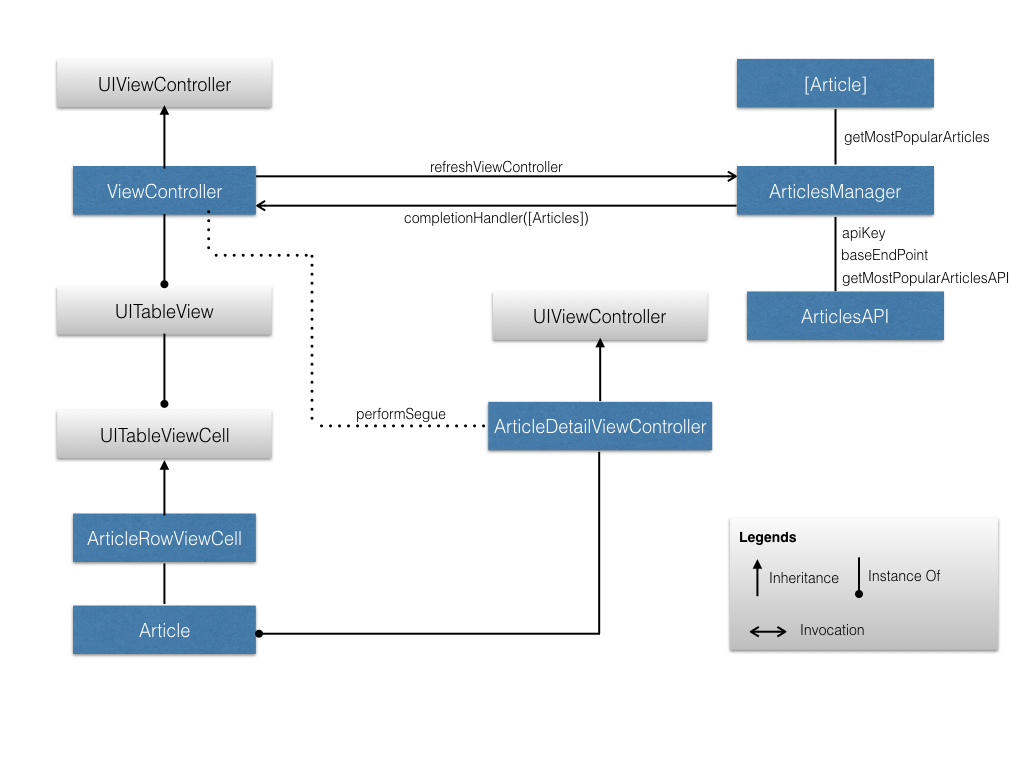
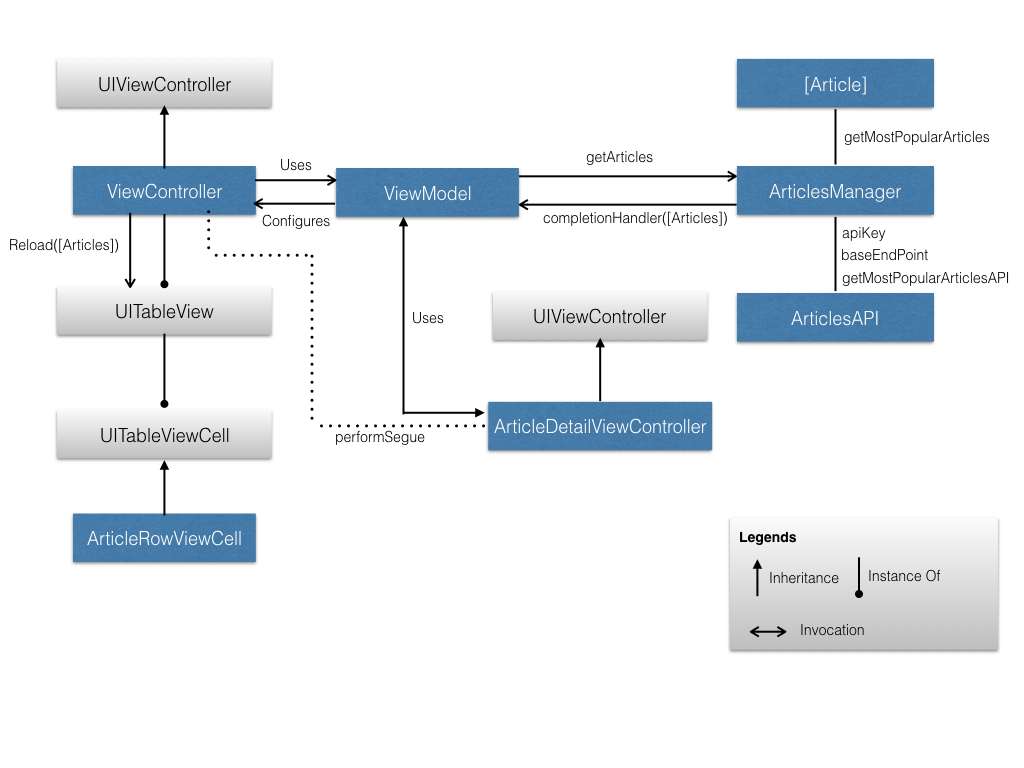
Code Changes and refactoring

diff --git a/Articles/Articles/ViewController.swift b/Articles/Articles/ViewController.swift
@@ -92,7 +92,6 @@ class ViewController: UIViewController {
     }
     
     @IBAction func toggleDays(sender:Any) {
-        print("Values is \((sender as! UIStepper).value)")
         switch Int((sender as! UIStepper).value) {
         case 1:
             self.selectedDay = 1
@@ -125,7 +124,6 @@ extension ViewController : UITableViewDataSource {
     //Cell??
     func tableView(_ tableView: UITableView, cellForRowAt indexPath: IndexPath) -> UITableViewCell {
         let cell = tableView.dequeueReusableCell(withIdentifier: "ArticleRowViewCell", for: indexPath) as! ArticleRowViewCell
-        cell.artical = self.articleList?[indexPath.row]
         articleViewModal.configureRowView(articleRow: indexPath.row, view: cell)
         return cell
     }

diff --git a/Articles/Articles/UI/ArticleRowViewCell.swift b/Articles/Articles/UI/ArticleRowViewCell.swift
@@ -22,9 +22,6 @@ class ArticleRowViewCell: UITableViewCell {
     // Article Image
     @IBOutlet weak var imageLabel:UIImageView!
     
-    // Represented Modal
-    var artical : Article?
-    
     override func awakeFromNib() {
         super.awakeFromNib()
         imageLabel.layer.borderWidth = 1
